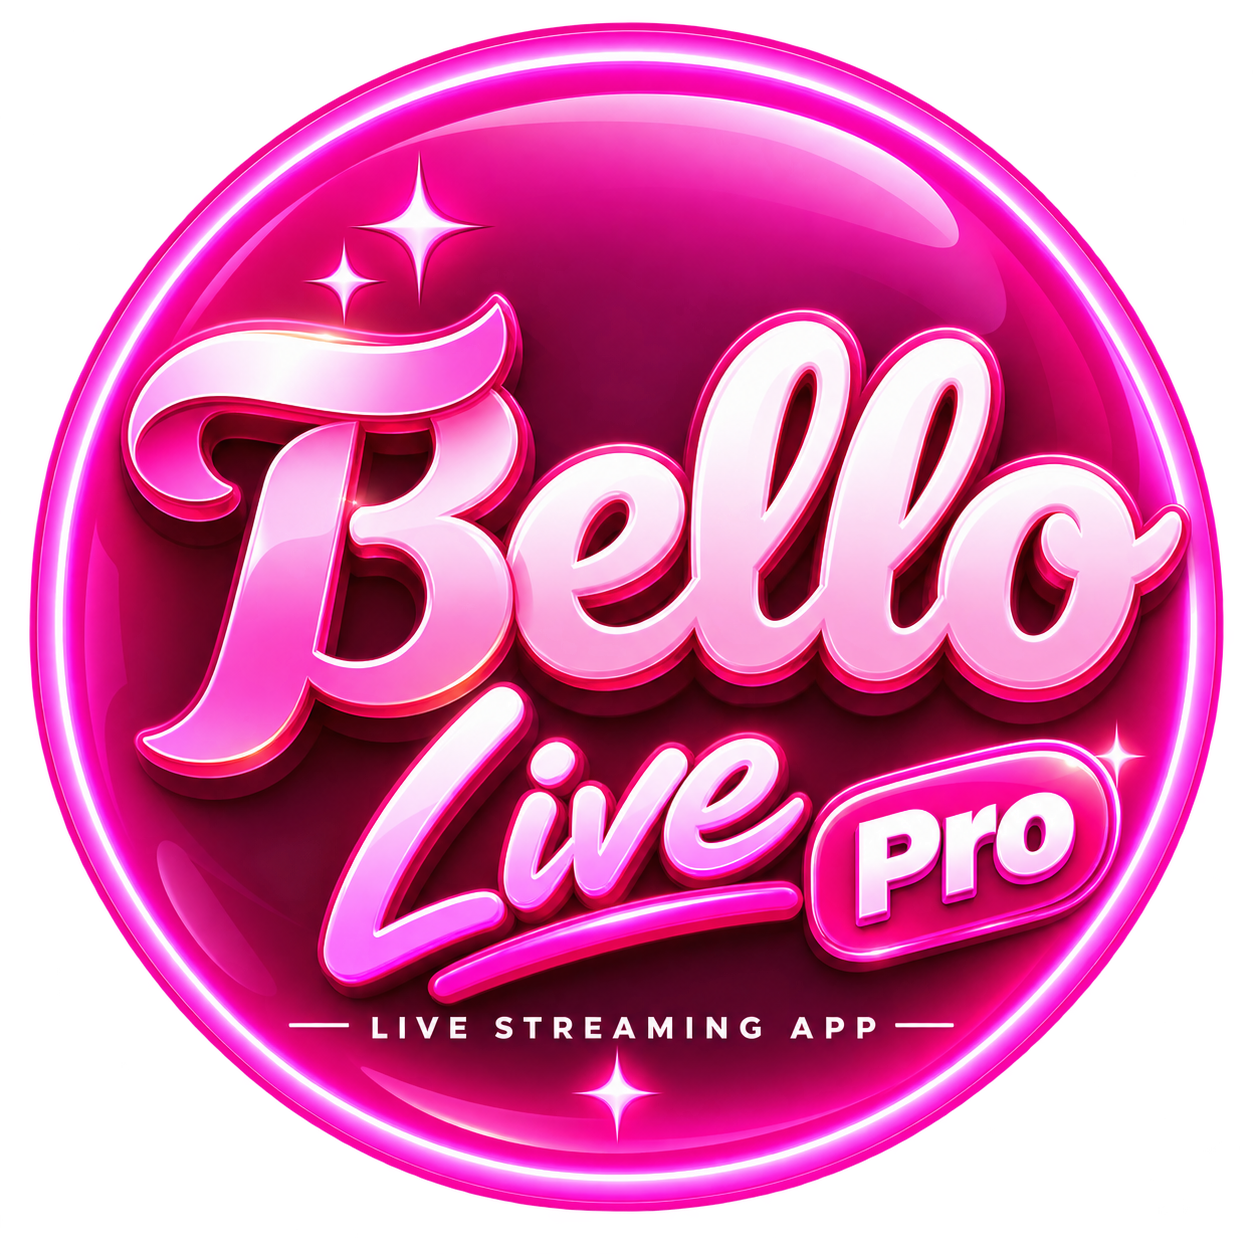
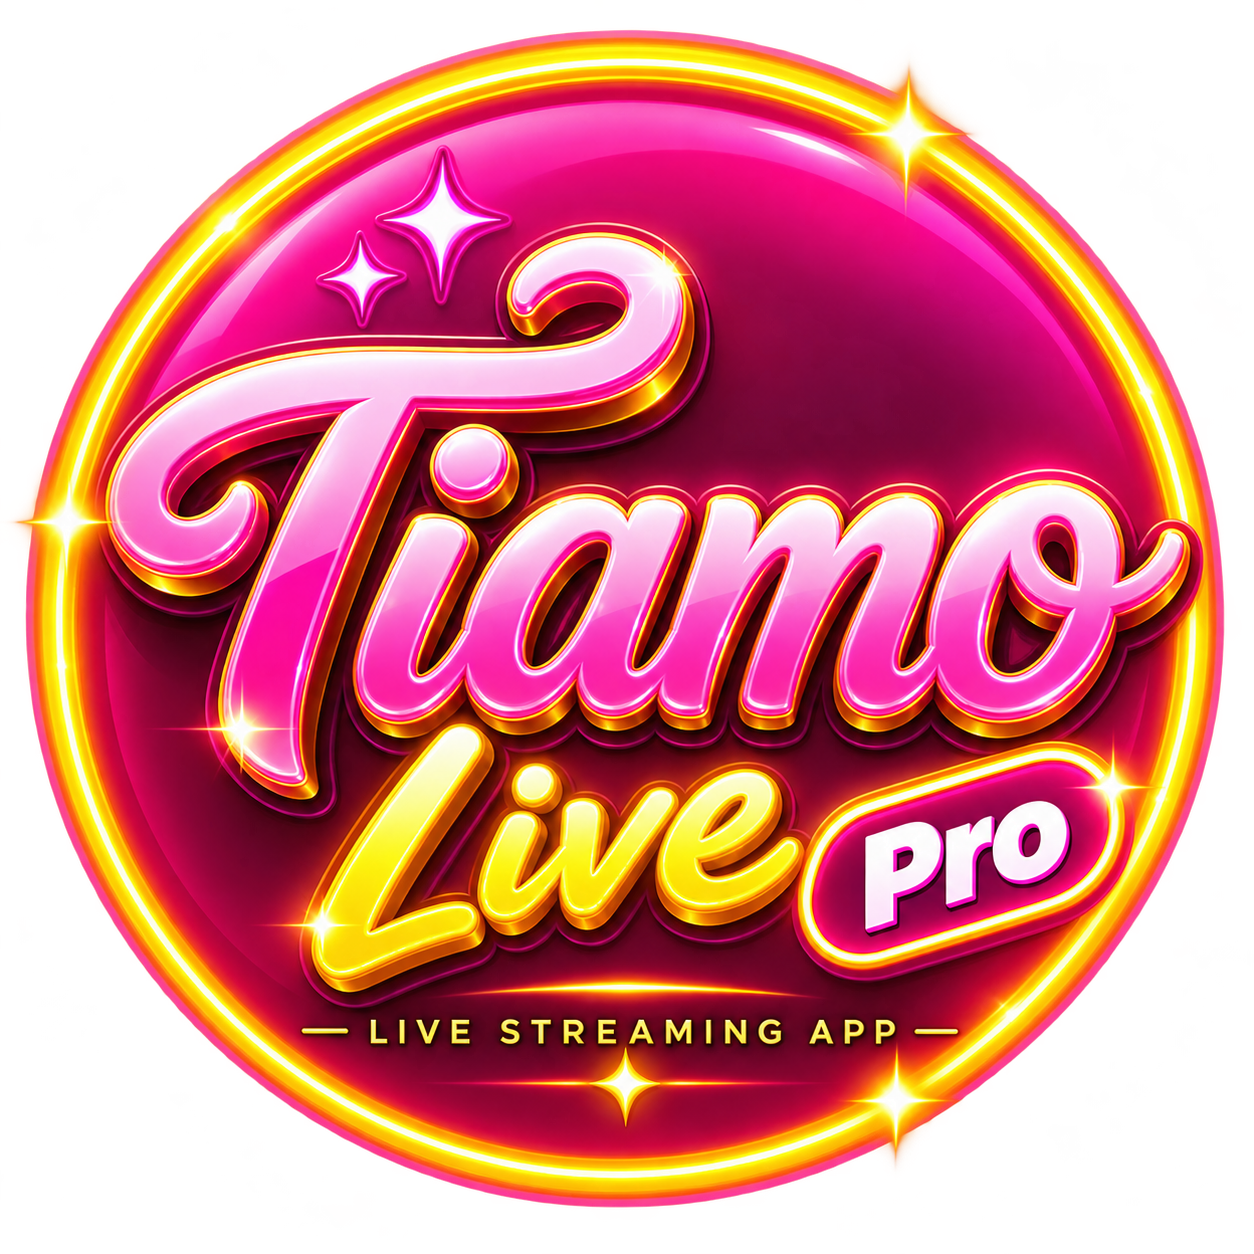
feat: setup Tiamo Live branding, Firebase config, and upload API

diff --git a/src/lib/firebase.ts b/src/lib/firebase.ts
@@ -6,14 +6,14 @@ import { getAuth } from "firebase/auth";
 import { getAnalytics } from "firebase/analytics";
 
 export const firebaseConfig = {
-  apiKey: import.meta.env.VITE_FIREBASE_API_KEY || "AIzaSyBSxchW0IORZegT8oKDoT3V_e6evYrNrvY",
-  authDomain: import.meta.env.VITE_FIREBASE_AUTH_DOMAIN || "bello-live.firebaseapp.com",
-  databaseURL: import.meta.env.VITE_FIREBASE_DATABASE_URL || "https://bello-live-default-rtdb.firebaseio.com",
-  projectId: import.meta.env.VITE_FIREBASE_PROJECT_ID || "bello-live",
-  storageBucket: import.meta.env.VITE_FIREBASE_STORAGE_BUCKET || "bello-live.firebasestorage.app",
-  messagingSenderId: import.meta.env.VITE_FIREBASE_MESSAGING_SENDER_ID || "532091260551",
-  appId: import.meta.env.VITE_FIREBASE_APP_ID || "1:532091260551:web:c94c4a939a1f31cb5db222",
-  measurementId: import.meta.env.VITE_FIREBASE_MEASUREMENT_ID || "G-QCKD7G6C57"
+  apiKey: import.meta.env.VITE_FIREBASE_API_KEY || "AIzaSyCN5GE1QVxZ1zSShDlJaB_G0NNFymKHE_4",
+  authDomain: import.meta.env.VITE_FIREBASE_AUTH_DOMAIN || "tiamo-live-pro.firebaseapp.com",
+  databaseURL: import.meta.env.VITE_FIREBASE_DATABASE_URL || "https://tiamo-live-pro-default-rtdb.firebaseio.com",
+  projectId: import.meta.env.VITE_FIREBASE_PROJECT_ID || "tiamo-live-pro",
+  storageBucket: import.meta.env.VITE_FIREBASE_STORAGE_BUCKET || "tiamo-live-pro.firebasestorage.app",
+  messagingSenderId: import.meta.env.VITE_FIREBASE_MESSAGING_SENDER_ID || "380260322453",
+  appId: import.meta.env.VITE_FIREBASE_APP_ID || "1:380260322453:web:b891badd7a08c34afddf9c",
+  measurementId: import.meta.env.VITE_FIREBASE_MEASUREMENT_ID || "G-9LJ2KQD6E4"
 };
 
 const app = initializeApp(firebaseConfig);

diff --git a/src/layout/AppSidebar.tsx b/src/layout/AppSidebar.tsx
@@ -24,7 +24,7 @@ import {
 import { useSidebar } from "../context/SidebarContext";
 import { ROLES } from "../routes/ProtectedRoute";
 import { useAuth } from "../lib/AuthProvider";
-import belloLogo from "../../assets/Bello.png";
+import tiamoLogo from "../../assets/Tiamo.png";
 
 type NavItem = {
   name: string;
@@ -439,12 +439,12 @@ const AppSidebar: React.FC = () => {
           className="p-4 flex items-center gap-3 border-b border-gray-200/50 dark:border-white/[0.08] hover:bg-black/5 dark:hover:bg-white/5 transition-colors"
         >
           <div className="w-11 h-11 rounded-2xl overflow-hidden shrink-0 bg-white/80 dark:bg-white/5 border border-brand-500/20 p-1 flex items-center justify-center shadow-md shadow-brand-500/10">
-            <img src={belloLogo} alt="Bello Live Pro" className="w-full h-full object-contain" />
+            <img src={tiamoLogo} alt="Tiamo Live" className="w-full h-full object-contain" />
           </div>
           {(isExpanded || isHovered || isMobileOpen) && (
             <div className="flex flex-col overflow-hidden whitespace-nowrap">
               <span className="font-extrabold text-brand-500 dark:text-brand-400 text-base tracking-tight">
-                Bello Live Pro
+                Tiamo Live
               </span>
               <span className="text-gray-500 dark:text-gray-400 text-[11px] font-medium tracking-wide uppercase">
                 {role === ROLES.MOTHER

diff --git a/src/AuthPage/SignIn.tsx b/src/AuthPage/SignIn.tsx
@@ -4,7 +4,7 @@ import { useNavigate } from "react-router";
 import { toast } from "react-hot-toast";
 import { LuLock, LuMail, LuEye, LuEyeOff } from "react-icons/lu";
 import { auth } from "../lib/firebase";
-import belloLogo from "../../assets/Bello.png";
+import tiamoLogo from "../../assets/Tiamo.png";
 
 const SignIn: React.FC = () => {
   const [email, setEmail] = useState("");
@@ -40,14 +40,14 @@ const SignIn: React.FC = () => {
           <div className="flex justify-center mb-4">
             <div className="w-24 h-24 bg-white/80 dark:bg-white/10 rounded-3xl p-3 shadow-xl shadow-brand-500/10 border border-brand-500/20 flex items-center justify-center">
               <img
-                src={belloLogo}
-                alt="Bello Live Pro Logo"
+                src={tiamoLogo}
+                alt="Tiamo Live Logo"
                 className="w-full h-full object-contain"
               />
             </div>
           </div>
           <h1 className="text-2xl md:text-3xl font-black text-brand-500 dark:text-brand-400">
-            Bello Live Pro
+            Tiamo Live
           </h1>
           <p className="text-gray-500 dark:text-gray-400 mt-2 text-sm">
             Enter your credentials to access the management dashboard

diff --git a/src/layout/AppHeader.tsx b/src/layout/AppHeader.tsx
@@ -4,7 +4,7 @@ import { Link } from "react-router";
 import { useSidebar } from "../context/SidebarContext";
 import { ThemeToggleButton } from "../components/common/ThemeToggleButton";
 import UserDropdown from "../components/header/UserDropdown";
-import belloLogo from "../../assets/Bello.png";
+import tiamoLogo from "../../assets/Tiamo.png";
 
 const AppHeader: React.FC = () => {
   const [isApplicationMenuOpen, setApplicationMenuOpen] = useState(false);
@@ -84,9 +84,9 @@ const AppHeader: React.FC = () => {
 
           <Link to="/" className="lg:hidden flex items-center gap-2.5">
             <div className="w-9 h-9 rounded-xl overflow-hidden bg-white/10 dark:bg-white/5 border border-brand-500/20 p-1 flex items-center justify-center shadow-md shadow-brand-500/10">
-              <img src={belloLogo} alt="Bello Live Pro" className="w-full h-full object-contain" />
+              <img src={tiamoLogo} alt="Tiamo Live" className="w-full h-full object-contain" />
             </div>
-            <h1 className="font-bold text-xl text-brand-500 dark:text-brand-400">Bello Live Pro</h1>
+            <h1 className="font-bold text-xl text-brand-500 dark:text-brand-400">Tiamo Live</h1>
           </Link>
 
           <button

diff --git a/src/components/header/UserDropdown.tsx b/src/components/header/UserDropdown.tsx
@@ -2,7 +2,7 @@ import { useState } from "react";
 import { Dropdown } from "../ui/dropdown/Dropdown";
 import { useAuth } from "../../lib/AuthProvider";
 import { useNavigate } from "react-router";
-import belloLogo from "../../../assets/Bello.png";
+import tiamoLogo from "../../../assets/Tiamo.png";
 
 export default function UserDropdown() {
   const [isOpen, setIsOpen] = useState(false);
@@ -35,8 +35,8 @@ export default function UserDropdown() {
       >
         <span className="overflow-hidden rounded-full h-10 w-10 border border-brand-500/20 dark:border-white/[0.08] bg-white/20 p-0.5 flex items-center justify-center">
           <img 
-            src={belloLogo} 
-            alt="Bello Live Pro Logo" 
+            src={tiamoLogo} 
+            alt="Tiamo Live Logo" 
             className="w-full h-full object-contain rounded-full"
           />
         </span>

diff --git a/index.html b/index.html
@@ -2,9 +2,9 @@
 <html lang="en">
   <head>
     <meta charset="UTF-8" />
-    <link rel="icon" type="image/png" href="/Bello.png" />
+    <link rel="icon" type="image/png" href="/Tiamo.png" />
     <meta name="viewport" content="width=device-width, initial-scale=1.0" />
-    <title>Bello Live Pro</title>
+    <title>Tiamo Live</title>
   </head>
   <body class="dark:bg-gray-900">
     <div id="root"></div>

diff --git a/src/components/header/Header.tsx b/src/components/header/Header.tsx
@@ -80,8 +80,8 @@ const Header: React.FC<HeaderProps> = ({ onClick, onToggle }) => {
 
           <Link to="/" className="lg:hidden flex items-center gap-2">
             <img
-              src="/Bello.png"
-              alt="Bello Live Pro Logo"
+              src="/Tiamo.png"
+              alt="Tiamo Live Logo"
               className="w-9 h-9 object-contain"
             />
           </Link>

diff --git a/src/lib/upload.ts b/src/lib/upload.ts
@@ -1,5 +1,5 @@
 const UPLOAD_API_URL =
-  import.meta.env.VITE_UPLOAD_API_URL || "https://api.sdstream.tech/api/upload";
+  import.meta.env.VITE_UPLOAD_API_URL || "https://api.tiamostream.tech/api/upload";
 
 /**
  * Uploads a file to the external API
